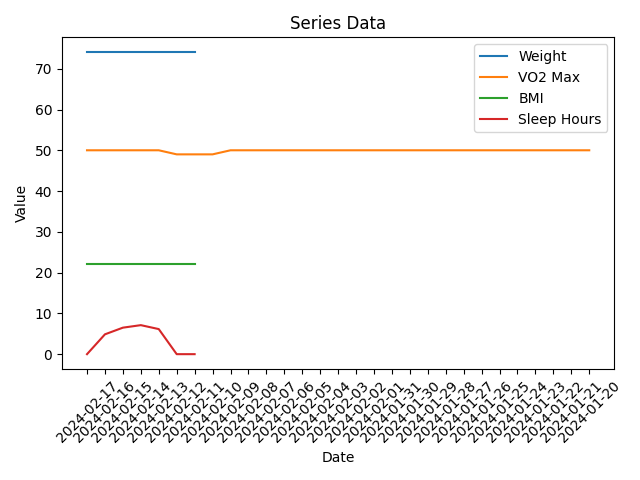
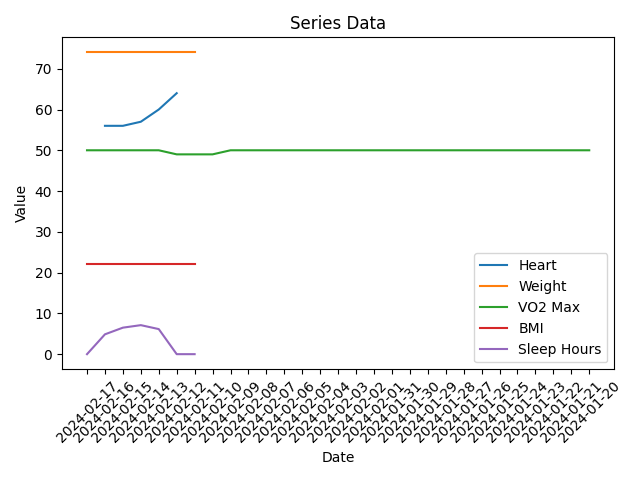
Adds heart rate to chart

diff --git a/generate-dashboard.py b/generate-dashboard.py
@@ -120,11 +120,12 @@ with open('index.html', 'w') as f:
 dates = [data["date"] for data in sorted_entries]
 vo2_max = [float(data["vo2_max"]) if "vo2_max" in data else None for data in sorted_entries]
 weight = [float(data["weight"]) if "weight" in data else None for data in sorted_entries]
-
+heart = [float(data["resting_heart_rate"]) if "resting_heart_rate" in data else None for data in sorted_entries]
 bmi = [float(data["bmi"]) if "bmi" in data else None for data in sorted_entries]
 sleep_hours = [float(data["sleep_hours"]) / 60 if "sleep_hours" in data else None for data in sorted_entries]
 
 # Plotting the data
+plt.plot(dates, heart, label='Heart')
 plt.plot(dates, weight, label='Weight')
 plt.plot(dates, vo2_max, label='VO2 Max')
 plt.plot(dates, bmi, label='BMI')
